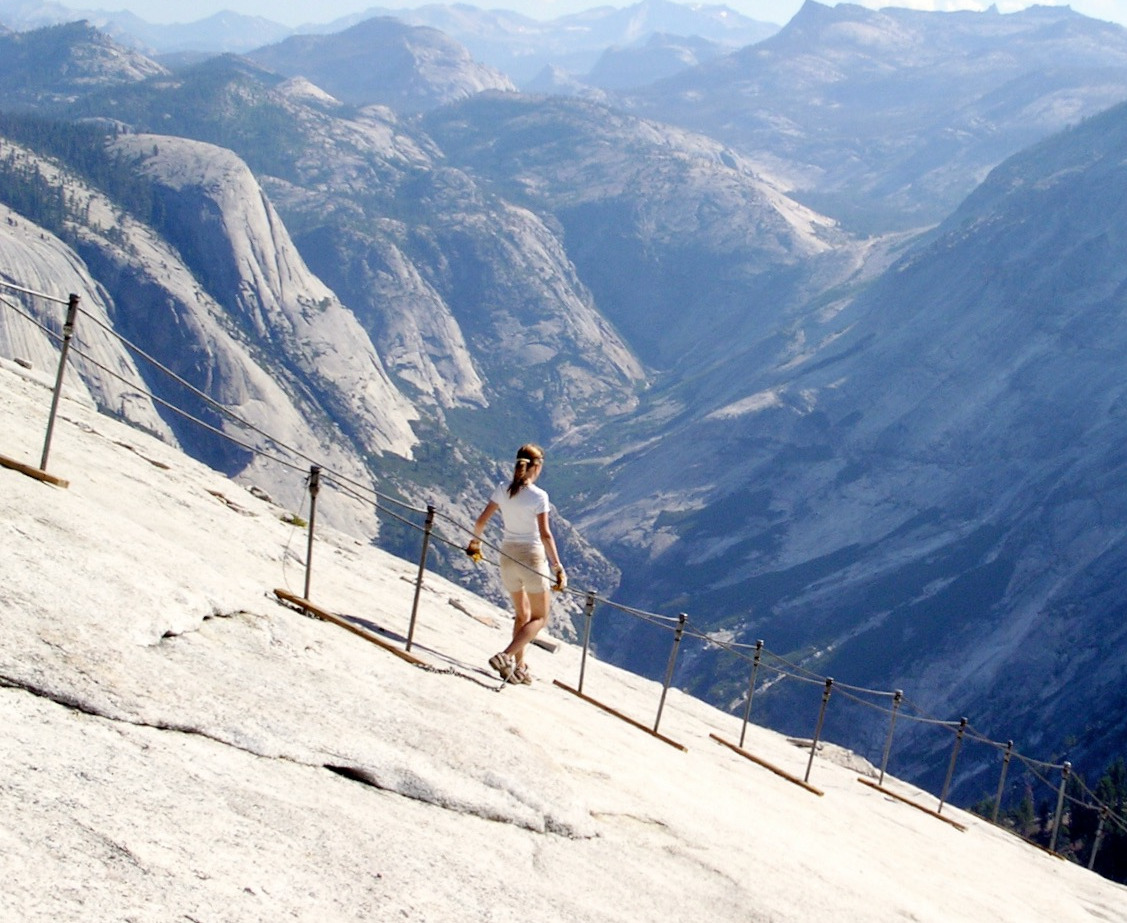
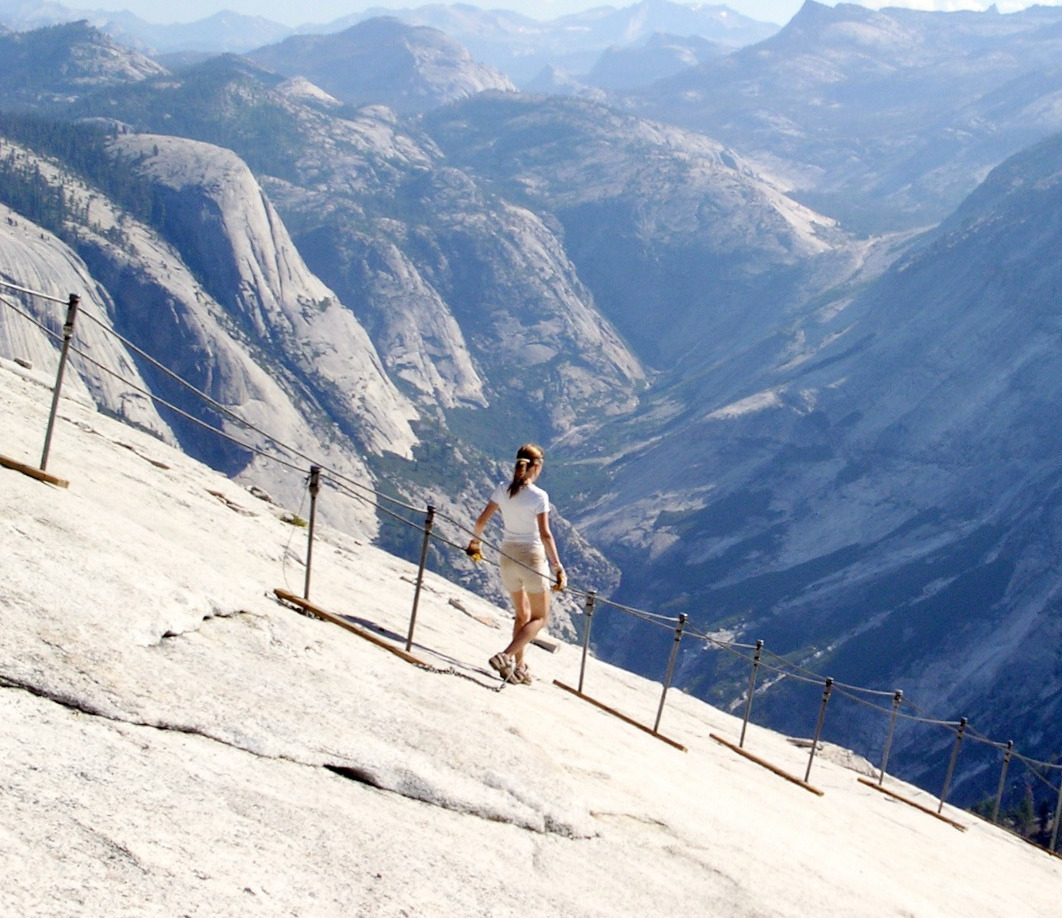
Minor improvement

diff --git a/main.js b/main.js
@@ -537,7 +537,7 @@ function loadBackgroundImages() {
 	// backgroundColourLunch = new THREE.Vector4(0.73, 0.73, 0.73, 1);
 
 	textureHalfDome = textureLoader.load('HalfDome_cropped.jpeg');	// private photo
-	aspectRatioHalfDome = 1127/923;	// 1532/1111;
+	aspectRatioHalfDome = 1062/918;	// 1532/1111;
 	backgroundColourHalfDome = new THREE.Vector4(0.76, 0.82, 0.92, 1);
 
 	// textureBlueMarble = textureLoader.load('The_Blue_Marble_(remastered).jpeg');	// https://en.wikipedia.org/wiki/The_Blue_Marble#/media/File:The_Blue_Marble_(remastered).jpg
